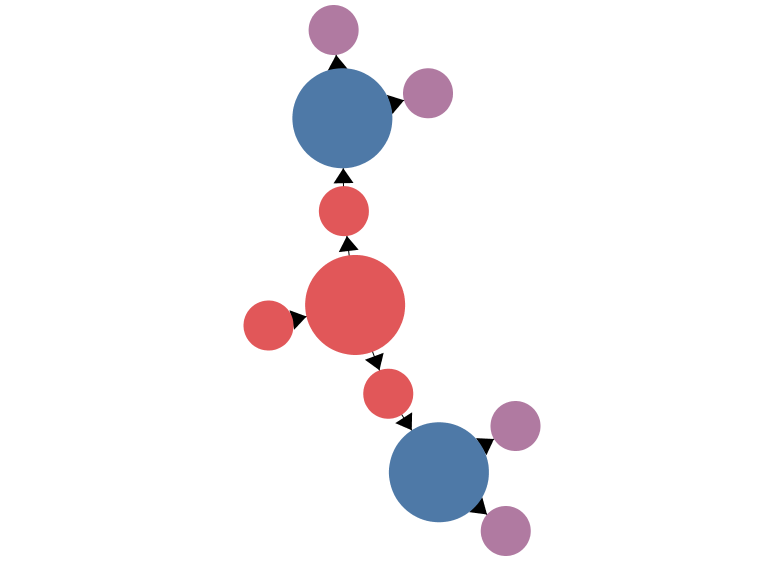
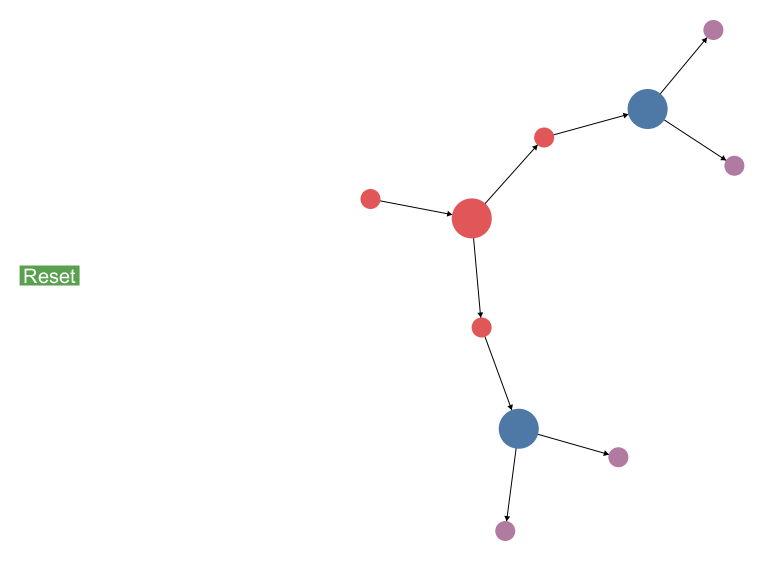
Implemented simple buttons in UI.

diff --git a/graphs/knn/knn_graph_style_sheet_big.css b/graphs/knn/knn_graph_style_sheet_big.css
@@ -2,26 +2,26 @@ graph {
 }
 
 node {
-	size: 10px;
+	size: 30px;
 	fill-color: black;
 	text-mode: hidden;
 }
 
 edge {
-	arrow-size: 4px, 2px;
+	arrow-size: 5px, 3px;
 }
 
 sprite {
 }
 
 node.knowledgenode {
-	size: 20px;
+	size: 60px;
 	text-mode: hidden;
 	fill-color: #4e79a7;
 }
 
 node.active_knowledgenode {
-	size: 20px;
+	size: 60px;
 	text-mode: hidden;
 	fill-color: #e15759;
 }
@@ -68,18 +68,18 @@ node.clicked {
 
 node.butt {
 	shape: box;
-    size: 60px, 30px;
-    text-size: 20px;
-    text-mode: normal;
-    text-color: white;
+	size: 60px, 30px;
+	text-size: 20px;
+	text-mode: normal;
+	text-color: white;
 	fill-color: #59a14f;
 }
 
 node.butt_clicked {
-    shape: box;
-    size: 60px, 30px;
-    text-size: 20px;
-    text-mode: normal;
-    text-color: white;
-    fill-color: #e15759;
+	shape: box;
+	size: 60px, 30px;
+	text-size: 20px;
+	text-mode: normal;
+	text-color: white;
+	fill-color: #e15759;
 }

diff --git a/src/main/java/graphing/KnnGraphVisualizer.java b/src/main/java/graphing/KnnGraphVisualizer.java
@@ -16,6 +16,9 @@ abstract class KnnGraphVisualizer extends GraphVisualizer {
     private static final int NUM_INITIAL_ACTIVE_TAGS = 5;
     private static final String KNN_STYLE_SHEET_PATH = "graphs/knn/knn_graph_style_sheet.css";
     private static final String ANIMAL_DATA_PATH = "data/animalData2.txt";
+    private static final String RESET_ID = "reset";
+    private static final String START_ID = "start";
+    private static final String STOP_ID = "stop";
     private Set<String> activeIDs;
     boolean forceContinue = false;
 
@@ -53,8 +56,26 @@ abstract class KnnGraphVisualizer extends GraphVisualizer {
     @Override
     void setupNodes() {
         loadKNN();
+        addButtons();
         addInitialNodes();
         activateInitialNodes();
+    }
+
+    private void addButtons() {
+        addButton(RESET_ID, "Reset", 0, 0, false);
+        addButton(START_ID, "Start", 0, 0.5, false);
+        addButton(STOP_ID, "Stop", 0, 1, true);
+    }
+
+    private void addButton(String id, String label, double x, double y, boolean clicked) {
+        Node node = graph.addNode(id);
+        node.addAttribute("layout.frozen");
+        node.addAttribute("xy", x, y);
+        if (clicked)
+            node.setAttribute("ui.class", "butt_clicked");
+        else
+            node.setAttribute("ui.class", "butt");
+        node.setAttribute("ui.label", label);
     }
 
     private void loadKNN() {
@@ -109,7 +130,27 @@ abstract class KnnGraphVisualizer extends GraphVisualizer {
     @Override
     public void buttonPushed(String id) {
         Node node = graph.getNode(id);
-        node.setAttribute("ui.class", "clicked");
+        if (RESET_ID.equals(id)) {
+            node.setAttribute("ui.class", "butt_clicked");
+            knn.clearActiveTags();
+            Set<String> prevActiveIDs = new HashSet<>(activeIDs);
+            activeIDs.clear();
+            for (String activeID : prevActiveIDs) {
+                updateNodeTagClass(activeID);
+            }
+            loadKNN();
+            activateInitialNodes();
+        } else if (START_ID.equals(id)) {
+            node.setAttribute("ui.class", "butt_clicked");
+            graph.getNode(STOP_ID).setAttribute("ui.class", "butt");
+            updated = true;
+        } else if (STOP_ID.equals(id)) {
+            node.setAttribute("ui.class", "butt_clicked");
+            graph.getNode(START_ID).setAttribute("ui.class", "butt");
+            updated = false;
+        } else {
+            node.setAttribute("ui.class", "clicked");
+        }
     }
 
     @Override
@@ -120,12 +161,16 @@ abstract class KnnGraphVisualizer extends GraphVisualizer {
 
     private void updateNodeTagClass(String id) {
         Node node = graph.getNode(id);
-        node.addAttribute("ui.label", id);
-        String nodeType = id.split("\\[")[0].toLowerCase();
-        if (activeIDs.contains(id)) {
-            node.setAttribute("ui.class", MessageFormat.format("active_{0}", nodeType));
-        } else {
-            node.setAttribute("ui.class", nodeType);
+        if (RESET_ID.equals(id)) {
+            node.setAttribute("ui.class", "butt");
+        } else if (!START_ID.equals(id) && !STOP_ID.equals(id)) {
+            node.addAttribute("ui.label", id);
+            String nodeType = id.split("\\[")[0].toLowerCase();
+            if (activeIDs.contains(id)) {
+                node.setAttribute("ui.class", MessageFormat.format("active_{0}", nodeType));
+            } else {
+                node.setAttribute("ui.class", nodeType);
+            }
         }
     }
 }

diff --git a/src/main/java/graphing/GraphVisualizer.java b/src/main/java/graphing/GraphVisualizer.java
@@ -11,10 +11,10 @@ import java.io.IOException;
 import java.text.MessageFormat;
 
 abstract class GraphVisualizer implements ViewerListener {
-    private static final int INITIAL_DELAY = 7000;
+    private static final int INITIAL_DELAY = 2000;
     Graph graph;
     ViewerPipe fromViewer;
-    private boolean updated = true;
+    boolean updated = false;
     FileSinkSVG2 svgSink;
 
     private boolean loop = true;
@@ -35,21 +35,21 @@ abstract class GraphVisualizer implements ViewerListener {
     @Override
     public abstract void buttonReleased(String id);
 
-    final void visualize() throws InterruptedException {
+    final void visualize() {
         visualize(true);
     }
 
-    final void visualize(boolean saveScreenshot) throws InterruptedException {
+    final void visualize(boolean saveScreenshot) {
         setupGraph();
         setupNodes();
-        int iteration = 0;
         long lastTime = System.currentTimeMillis();
-        while (System.currentTimeMillis() - lastTime < INITIAL_DELAY) {};
-        lastTime = System.currentTimeMillis();
+//        while (System.currentTimeMillis() - lastTime < INITIAL_DELAY) {};
+        int iteration = 0;
+        long lastT = System.currentTimeMillis();
         while (loop) {
             fromViewer.pump();
             if (updated) {
-                if (System.currentTimeMillis() - lastTime >= getSleepDelay()) {
+                if (System.currentTimeMillis() - lastT >= getSleepDelay()) {
                     iteration++;
                     if (saveScreenshot && iteration == 1) {
                         saveScreenshot("0");
@@ -58,7 +58,7 @@ abstract class GraphVisualizer implements ViewerListener {
                     if (updated && saveScreenshot) {
                         saveScreenshot(String.valueOf(iteration));
                     }
-                    lastTime = System.currentTimeMillis();
+                    lastT = System.currentTimeMillis();
                 }
             }
         }

diff --git a/src/main/java/knn/internal/KnowledgeNodeNetworkImpl.java b/src/main/java/knn/internal/KnowledgeNodeNetworkImpl.java
@@ -44,7 +44,8 @@ class KnowledgeNodeNetworkImpl implements KnowledgeNodeNetwork {
 
     @Override
     public void resetEmpty() {
-        clearKnowledgeNodes();
+        mapKN.clear();
+        activeTags.clear();
     }
 
     @Override
@@ -53,8 +54,7 @@ class KnowledgeNodeNetworkImpl implements KnowledgeNodeNetwork {
     }
 
     @Override
-    public void clearKnowledgeNodes() {
-        mapKN.clear();
+    public void clearActiveTags() {
         activeTags.clear();
     }
 

diff --git a/src/main/java/graphing/KnnSimpleGraphVisualizer.java b/src/main/java/graphing/KnnSimpleGraphVisualizer.java
@@ -1,8 +1,14 @@
 package graphing;
 
 abstract class KnnSimpleGraphVisualizer extends KnnGraphVisualizer {
+    private static final String SIMPLE_KNN_STYLE_SHEET_PATH = "graphs/knn/knn_graph_style_sheet_big.css";
     private static final String SIMPLE_DATA_PATH = "data/simpleData.txt";
 
+
+    @Override
+    String getStyleSheetPath() {
+        return SIMPLE_KNN_STYLE_SHEET_PATH;
+    }
 
     @Override
     String getKnnDataPath() {

diff --git a/src/main/java/knn/api/KnowledgeNodeNetwork.java b/src/main/java/knn/api/KnowledgeNodeNetwork.java
@@ -26,10 +26,7 @@ public interface KnowledgeNodeNetwork {
      */
     void save(String dbFilename);
 
-    /**
-     * Clears all the Knowledge Nodes from the KNN.
-     */
-    void clearKnowledgeNodes();
+    void clearActiveTags();
 
     /**
      * Adds a Knowledge Node to the KNN.

diff --git a/src/main/java/graphing/KnnButtonGUI.java b/src/main/java/graphing/KnnButtonGUI.java
@@ -1,0 +1,4 @@
+package graphing;
+
+public class KnnButtonGUI {
+}
